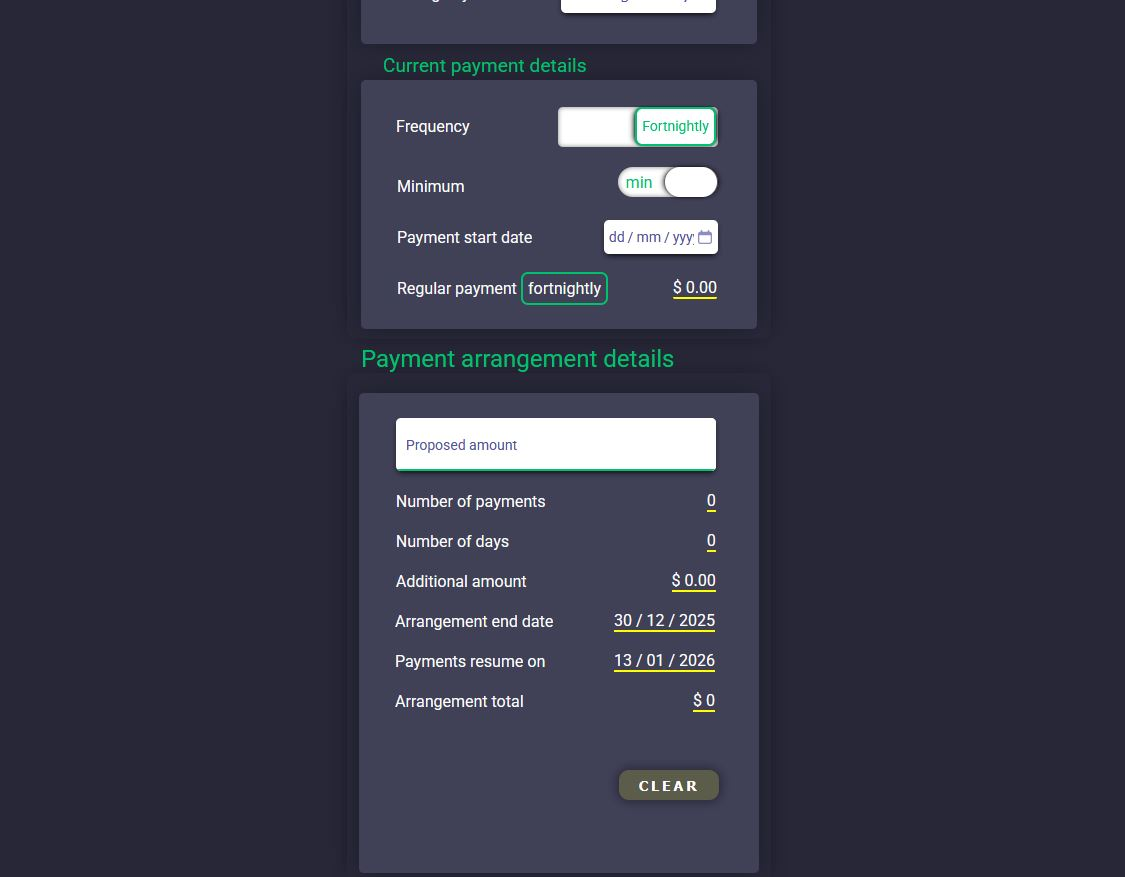
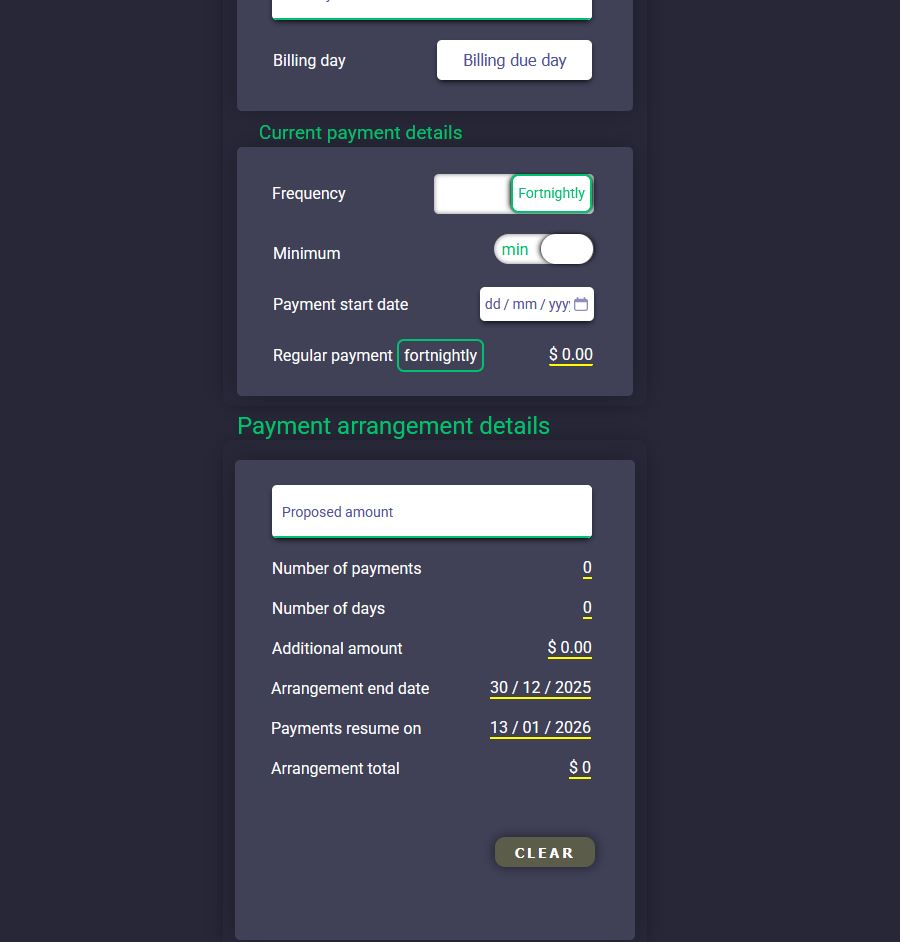
finished all project tiles - Started working on Contact form

Changed region(s): [[0.2489, 0.0, 0.7156, 1.0]]

diff --git a/index.html b/index.html
@@ -404,10 +404,10 @@
                         class="bg-white text-gray-800 px-4 py-2 rounded-lg shadow hover:scale-105 transform transition text-sm"
                         data-title="Compensation Claims Payout Portal"
                         data-desc="Application designed to streamline compensation claims payouts for a law firm collaboratively with a team of developers.
-
 I designed the UI/UX, as an intuitive platform for multi-user sign-ups, while also implementing complex calculation logic.
 
-The app was built with SvelteKit, JavaScript, TypeScript, and Tailwind CSS."
+💪 This flagship project not only sharpened my development skills but also gave me valuable experience in client collaboration and understanding real-world business needs.
+"
                         data-image="./assets/images/comptrails-app-modal-view-image.png"
                         data-live="https://app.comptrials.com/"
                         data-repo="https://github.com/a-fatsum"
@@ -450,7 +450,7 @@ The app was built with SvelteKit, JavaScript, TypeScript, and Tailwind CSS."
                       Payment Arrangement Platform
                     </h5>
                     <p class="text-sm text-gray-600 mt-1">
-                      Overdue Loan Repayment Plan Arrangement Calculator
+                      Loan Repayment Arrangement Calculator
                     </p>
 
                     <div class="mt-3 flex items-center justify-between gap-2">
@@ -469,11 +469,10 @@ The app was built with SvelteKit, JavaScript, TypeScript, and Tailwind CSS."
                       <button
                         class="bg-white text-gray-800 px-4 py-2 rounded-lg shadow hover:scale-105 transform transition text-sm"
                         data-title="Financial Calculator"
-                        data-desc="This web application replaced an error-prone Excel workflow at Toyota Finance Australia with a reliable, easy-to-use calculation tool. 
-                        
+                        data-desc="This application replaced an error-prone Excel workflow at Toyota Finance Australia with a reliable, easy-to-use calculation tool. 
                         As my first real-world project, it was a milestone that strengthened my understanding of JavaScript functions, array manipulation, and core logic building using plain JavaScript, HTML, and CSS. 
                         
-                        I’m especially proud to see the solution still in use today, supporting day-to-day work at a large financial organisation and proving its real business value."
+                        😎 I’m especially proud to see the solution still in use today, supporting day-to-day work at a large financial organisation and proving its real business value."
                         data-image="./assets/images/payment_arrangement_image.JPG"
                         data-live="https://a-fatsum.github.io/my-pmt-calc/"
                         data-repo="https://github.com/a-fatsum/my-pmt-calc"
@@ -501,8 +500,7 @@ The app was built with SvelteKit, JavaScript, TypeScript, and Tailwind CSS."
                   <div class="p-4">
                     <h5 class="font-semibold text-gray-800">Daily Drive</h5>
                     <p class="text-sm text-gray-600 mt-1">
-                      Task Planner CHANGE an awesome app that makes your life
-                      easy.
+                      Personal Tasks Planner React Application
                     </p>
 
                     <div class="mt-3 flex items-center justify-between gap-2">
@@ -520,17 +518,20 @@ The app was built with SvelteKit, JavaScript, TypeScript, and Tailwind CSS."
 
                       <!-- <div class="flex gap-2"> -->
                       <button
-                        class="bg-white text-gray-800 px-4 py-2 rounded-lg shadow hover:scale-105 transform transition"
+                        class="bg-white text-gray-800 px-4 py-2 rounded-lg shadow hover:scale-105 transform transition text-sm"
                         data-title="Analytics Dashboard"
-                        data-desc="Realtime charts, offline caching and exportable reports."
-                        data-image="./assets/images/onclick_website_fallback_imag.png"
+                        data-desc="The Daily Drive Web Application is a task management tool that allows users to organize their to-do lists by categories, complete with due dates and times. 
+                        The app may seem simple at first glance, but it was an opportunity to iterate on it multiple times to build a strong foundation in React Components, state management and Hooks."
+                        data-image="./assets/images/reactApp.png"
                         data-live="#"
+                        data-repo="https://github.com/a-fatsum/daily-drive"
                       >
                         View project
                       </button>
                       <!-- </div> -->
                     </div>
                   </div>
+                  <!--  -->
                 </article>
               </div>
             </div>
@@ -576,10 +577,7 @@ The app was built with SvelteKit, JavaScript, TypeScript, and Tailwind CSS."
                   <div class="flex items-center justify-between gap-4">
                     <div>
                       <h4 class="text-2xl font-semibold">Web Designs Agency</h4>
-                      <!-- <p class="text-sm text-gray-600 mt-1">
-                        Financial calculator built for <br />
-                        Toyota Finance Australia.
-                      </p> -->
+
                       <div class="mt-4 flex gap-2">
                         <span class="text-xs bg-white/20 px-3 py-1 rounded-full"
                           >WordPress</span
@@ -595,11 +593,14 @@ The app was built with SvelteKit, JavaScript, TypeScript, and Tailwind CSS."
 
                     <div class="flex gap-2 absolute right-0">
                       <button
-                        class="bg-white text-gray-800 px-4 py-2 rounded-lg shadow hover:scale-105 transform transition"
+                        class="bg-white text-gray-800 px-4 py-2 rounded-lg shadow hover:scale-105 transform transition text-sm"
                         data-title="Analytics Dashboard"
-                        data-desc="Realtime charts, offline caching and exportable reports."
+                        data-desc="Website built for a web design agency I founded, making it a hands-on opportunity to shape both the product and the business. 
+                        The project allowed me to dive into SEO fundamentals, from site structure to content optimisation. 
+                        Refining the site strengthened my understanding of how thoughtful implementation can drive visibility and conversion."
                         data-image="./assets/images/onclick_website_fallback_imag.png"
-                        data-live="#"
+                        data-live="https://onclickwebdesigns.com.au/"
+                        data-repo="https://github.com/a-fatsum"
                       >
                         View project
                       </button>
@@ -610,7 +611,7 @@ The app was built with SvelteKit, JavaScript, TypeScript, and Tailwind CSS."
 
               <!-- Grid of web sites cards -->
               <div class="grid grid-cols-1 gap-6">
-                <!-- Website 1 -->
+                <!-- Cleaning Website -->
                 <article
                   class="rounded-2xl overflow-hidden shadow group bg-gray-50"
                 >
@@ -639,11 +640,14 @@ The app was built with SvelteKit, JavaScript, TypeScript, and Tailwind CSS."
                         >
                       </div>
                       <button
-                        class="bg-white text-gray-800 px-4 py-2 rounded-lg shadow hover:scale-105 transform transition"
+                        class="bg-white text-gray-800 px-4 py-2 rounded-lg shadow hover:scale-105 transform transition text-sm"
                         data-title="Analytics Dashboard"
-                        data-desc="Realtime charts, offline caching and exportable reports."
-                        data-image="./assets/images/onclick_website_fallback_imag.png"
-                        data-live="#"
+                        data-desc="Website created for a local cleaning business, designed to showcase their services and help attract more customers. 
+                        Built with WordPress and Elementor, the site features a user-friendly layout and responsive design, easy for visitors to navigate and book services online. 
+                        "
+                        data-image="./assets/images/skyUp-cleaning-modal-image.JPG"
+                        data-live="https://skyupcleaningservices.com.au/"
+                        data-repo="https://github.com/a-fatsum"
                       >
                         View project
                       </button>
@@ -681,11 +685,14 @@ The app was built with SvelteKit, JavaScript, TypeScript, and Tailwind CSS."
                         >
                       </div>
                       <button
-                        class="bg-white text-gray-800 px-4 py-2 rounded-lg shadow hover:scale-105 transform transition"
+                        class="bg-white text-gray-800 px-4 py-2 rounded-lg shadow hover:scale-105 transform transition text-sm"
                         data-title="Analytics Dashboard"
-                        data-desc="Realtime charts, offline caching and exportable reports."
-                        data-image="./assets/images/onclick_website_fallback_imag.png"
-                        data-live="#"
+                        data-desc="Website built for a local café, using WordPress and Elementor to create a visually appealing, easy-to-navigate online presence. 
+                        The project gave me the opportunity to take a hands-on approach in curating the entire experience, from collaborating with photographers and designers to overseeing the development process from start to finish. 
+                        "
+                        data-image="./assets/images/north-x-northwest-modal-image.JPG"
+                        data-live="https://north-x-northwest.com/"
+                        data-repo="https://github.com/a-fatsum"
                       >
                         View project
                       </button>
@@ -699,7 +706,7 @@ The app was built with SvelteKit, JavaScript, TypeScript, and Tailwind CSS."
           <!-- ==================================================================================================== Project Modal -->
           <div
             id="modal-overlay"
-            class="fixed inset-0 z-50 hidden flex items-center justify-center bg-black/50 px-4"
+            class="fixed inset-0 z-50 hidden flex items-center justify-center bg-black/50 px-4 transition-transform duration-500"
           >
             <!-- Modal box -->
             <div
@@ -774,7 +781,7 @@ The app was built with SvelteKit, JavaScript, TypeScript, and Tailwind CSS."
             </h2>
             <p class="text-gray-600 mt-2 max-w-2xl mx-auto">
               Want to work together or curious about a project? Drop me a
-              message — I reply promptly.
+              message, I reply promptly.
             </p>
           </div>
 
@@ -820,8 +827,8 @@ The app was built with SvelteKit, JavaScript, TypeScript, and Tailwind CSS."
                     </svg>
                     <a
                       href="mailto:hello@yourdomain.com"
-                      class="text-gray-700 hover:underline"
-                      >hello@yourdomain.com</a
+                      class="text-gray-700 text-sm hover:underline"
+                      >m.delati.webwiz@gmail.com</a
                     >
                   </div>
 
@@ -840,7 +847,9 @@ The app was built with SvelteKit, JavaScript, TypeScript, and Tailwind CSS."
                         stroke-linejoin="round"
                       />
                     </svg>
-                    <span class="text-gray-700">Melbourne, Australia</span>
+                    <span class="text-sm text-gray-700"
+                      >Melbourne, Australia</span
+                    >
                   </div>
 
                   <div class="flex items-center gap-3 text-sm">
@@ -858,7 +867,7 @@ The app was built with SvelteKit, JavaScript, TypeScript, and Tailwind CSS."
                         stroke-linejoin="round"
                       />
                     </svg>
-                    <span class="text-gray-700"
+                    <span class="text-gray-700 text-sm"
                       >Available for freelance & contract</span
                     >
                   </div>
@@ -866,37 +875,25 @@ The app was built with SvelteKit, JavaScript, TypeScript, and Tailwind CSS."
 
                 <!-- Social icons -->
                 <div class="mt-6 flex gap-3">
-                  <!-- replace hrefs / icons as needed -->
                   <a
-                    href="#"
+                    href="linkedin.com/in/moustafa-abdelati "
                     aria-label="LinkedIn"
                     class="p-2 rounded-lg bg-gray-50 hover:bg-gray-100 transition"
                   >
                     <img
-                      src="images/svgIcons/linkedin.svg"
-                      alt="LinkedIn"
+                      src="assets\images\svgIcons\linkedin.svg"
+                      alt="LinkedIn Icon"
                       class="w-5 h-5"
                     />
                   </a>
                   <a
-                    href="#"
+                    href="github.com/a-fatsum"
                     aria-label="GitHub"
                     class="p-2 rounded-lg bg-gray-50 hover:bg-gray-100 transition"
                   >
                     <img
-                      src="images/svgIcons/github.svg"
+                      src="assets\images\svgIcons\github.svg"
                       alt="GitHub"
-                      class="w-5 h-5"
-                    />
-                  </a>
-                  <a
-                    href="#"
-                    aria-label="Figma"
-                    class="p-2 rounded-lg bg-gray-50 hover:bg-gray-100 transition"
-                  >
-                    <img
-                      src="images/svgIcons/figma.svg"
-                      alt="Figma"
                       class="w-5 h-5"
                     />
                   </a>
@@ -904,9 +901,22 @@ The app was built with SvelteKit, JavaScript, TypeScript, and Tailwind CSS."
               </div>
 
               <div
-                class="bg-white rounded-2xl shadow-lg p-6 border border-gray-100 sticky top-20 mt-6"
+                class="flex flex-col bg-white rounded-2xl shadow-lg p-6 border border-gray-100 sticky top-20 mt-6"
               >
                 <h3 class="text-lg font-semibold">My Resume</h3>
+                <!-- Download Button -->
+                <a
+                  href="https://drive.google.com/file/d/1jns9PhIT6IlYgR0PnWi4TfNRBRVTC3bU/view?usp=drive_link"
+                  target="_blank"
+                  aria-label="Download"
+                  class="p-2 bg-gray-50 hover:bg-gray-100 transition"
+                >
+                  <img
+                    src="assets\images\svgIcons\download-minimalistic.svg"
+                    alt="download icon"
+                    class="w-5 h-5"
+                  />
+                </a>
               </div>
             </div>
 
@@ -922,46 +932,46 @@ The app was built with SvelteKit, JavaScript, TypeScript, and Tailwind CSS."
                 >
                   <div class="grid md:grid-cols-2 gap-4">
                     <label class="block">
-                      <span class="text-sm text-gray-700">Name</span>
+                      <!-- <span class="text-sm text-gray-700">Name</span> -->
                       <input
                         required
                         name="name"
                         type="text"
                         placeholder="Your name"
-                        class="mt-1 block w-full rounded-md border-gray-200 shadow-sm focus:ring-2 focus:ring-red-200 focus:border-red-400"
+                        class="p-2 text-sm mt-1 block w-full rounded-md border-gray-200 shadow-sm focus:ring-2 focus:ring-red-200 focus:border-red-400"
                       />
                     </label>
 
                     <label class="block">
-                      <span class="text-sm text-gray-700">Email</span>
+                      <!-- <span class="text-sm text-gray-700">Email</span> -->
                       <input
                         required
                         name="email"
                         type="email"
                         placeholder="you@example.com"
-                        class="mt-1 block w-full rounded-md border-gray-200 shadow-sm focus:ring-2 focus:ring-red-200 focus:border-red-400"
+                        class="p-2 text-sm mt-1 block w-full rounded-md border-gray-200 shadow-sm focus:ring-2 focus:ring-red-200 focus:border-red-400"
                       />
                     </label>
                   </div>
 
                   <label class="block">
-                    <span class="text-sm text-gray-700">Subject</span>
+                    <!-- <span class="text-sm text-gray-700">Subject</span> -->
                     <input
                       name="subject"
                       type="text"
                       placeholder="Brief subject"
-                      class="mt-1 block w-full rounded-md border-gray-200 shadow-sm focus:ring-2 focus:ring-red-200 focus:border-red-400"
+                      class="p-2 text-sm mt-1 block w-full rounded-md border-gray-200 shadow-sm focus:ring-2 focus:ring-red-200 focus:border-red-400"
                     />
                   </label>
 
                   <label class="block">
-                    <span class="text-sm text-gray-700">Message</span>
+                    <!-- <span class="text-sm text-gray-700">Message</span> -->
                     <textarea
                       required
                       name="message"
                       rows="6"
                       placeholder="Tell me about your project or question…"
-                      class="mt-1 block w-full rounded-md border-gray-200 shadow-sm focus:ring-2 focus:ring-red-200 focus:border-red-400"
+                      class="p-2 text-sm mt-1 block w-full rounded-md border-gray-200 shadow-sm focus:ring-2 focus:ring-red-200 focus:border-red-400"
                     ></textarea>
                   </label>
 
@@ -994,13 +1004,13 @@ The app was built with SvelteKit, JavaScript, TypeScript, and Tailwind CSS."
                       Send message
                     </button>
 
-                    <button
+                    <!-- <button
                       id="mailto-btn"
                       type="button"
                       class="text-sm text-gray-600 underline hover:text-gray-800"
                     >
                       Use email instead
-                    </button>
+                    </button> -->
                   </div>
 
                   <p id="form-note" class="text-sm text-gray-500 mt-1">
